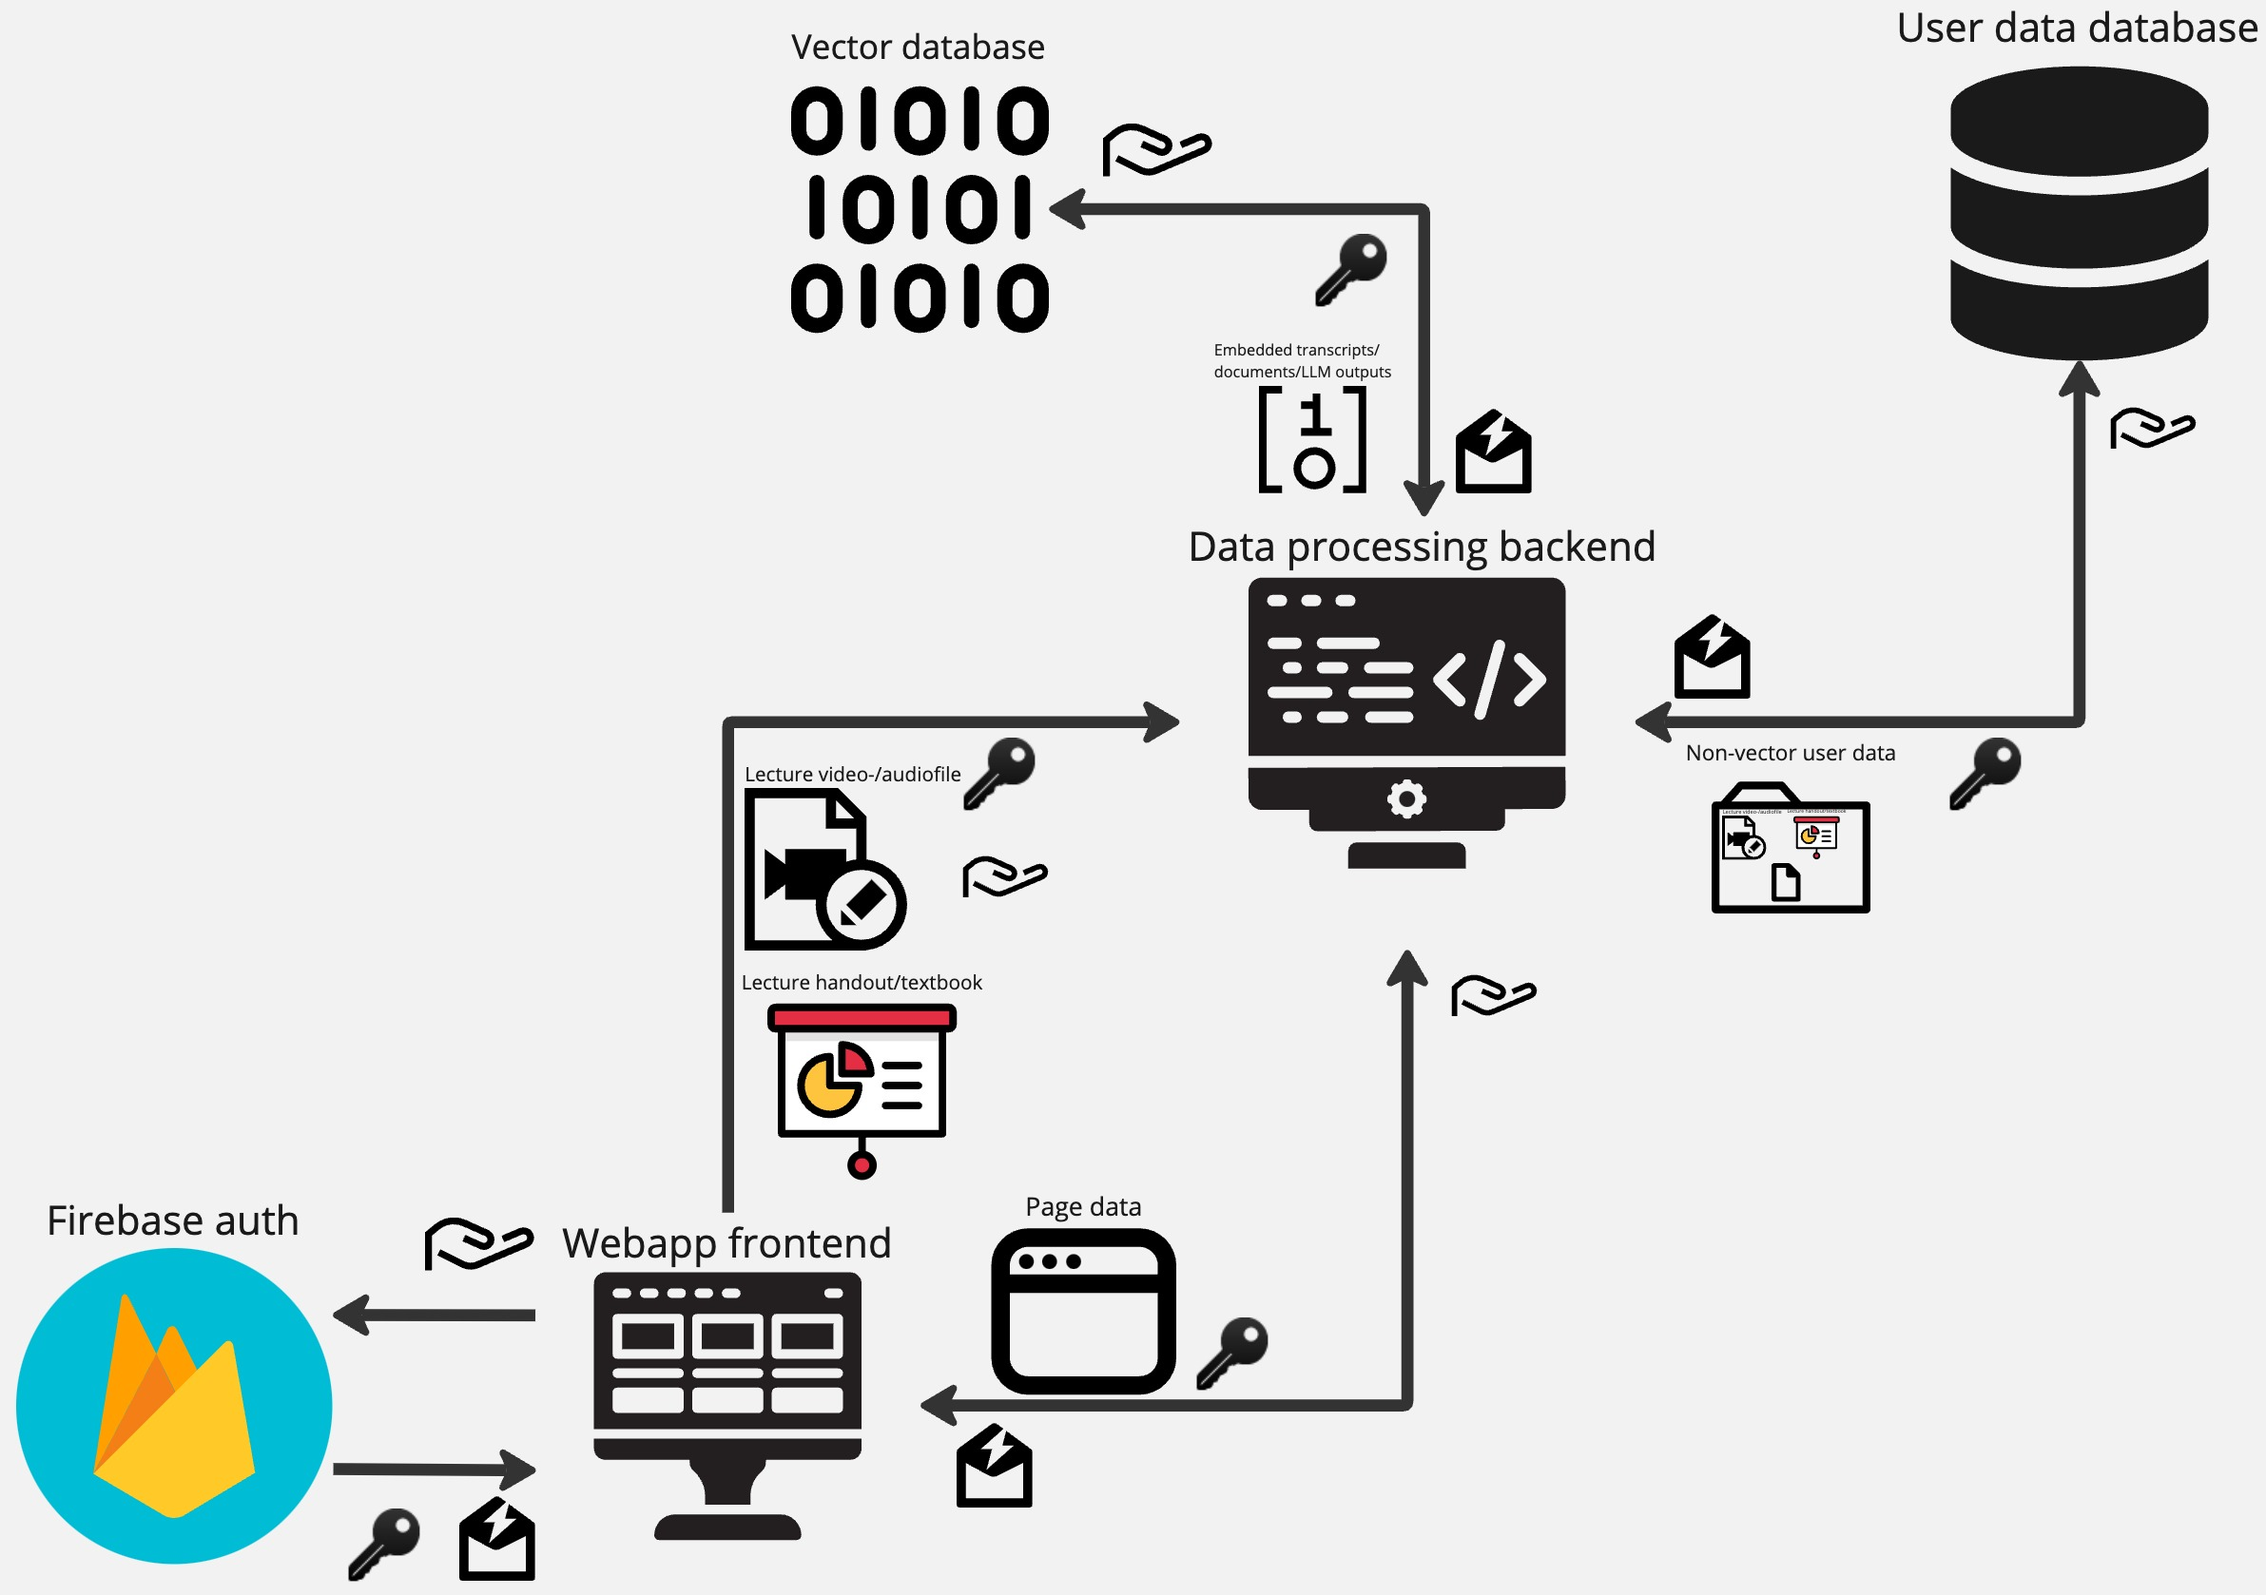
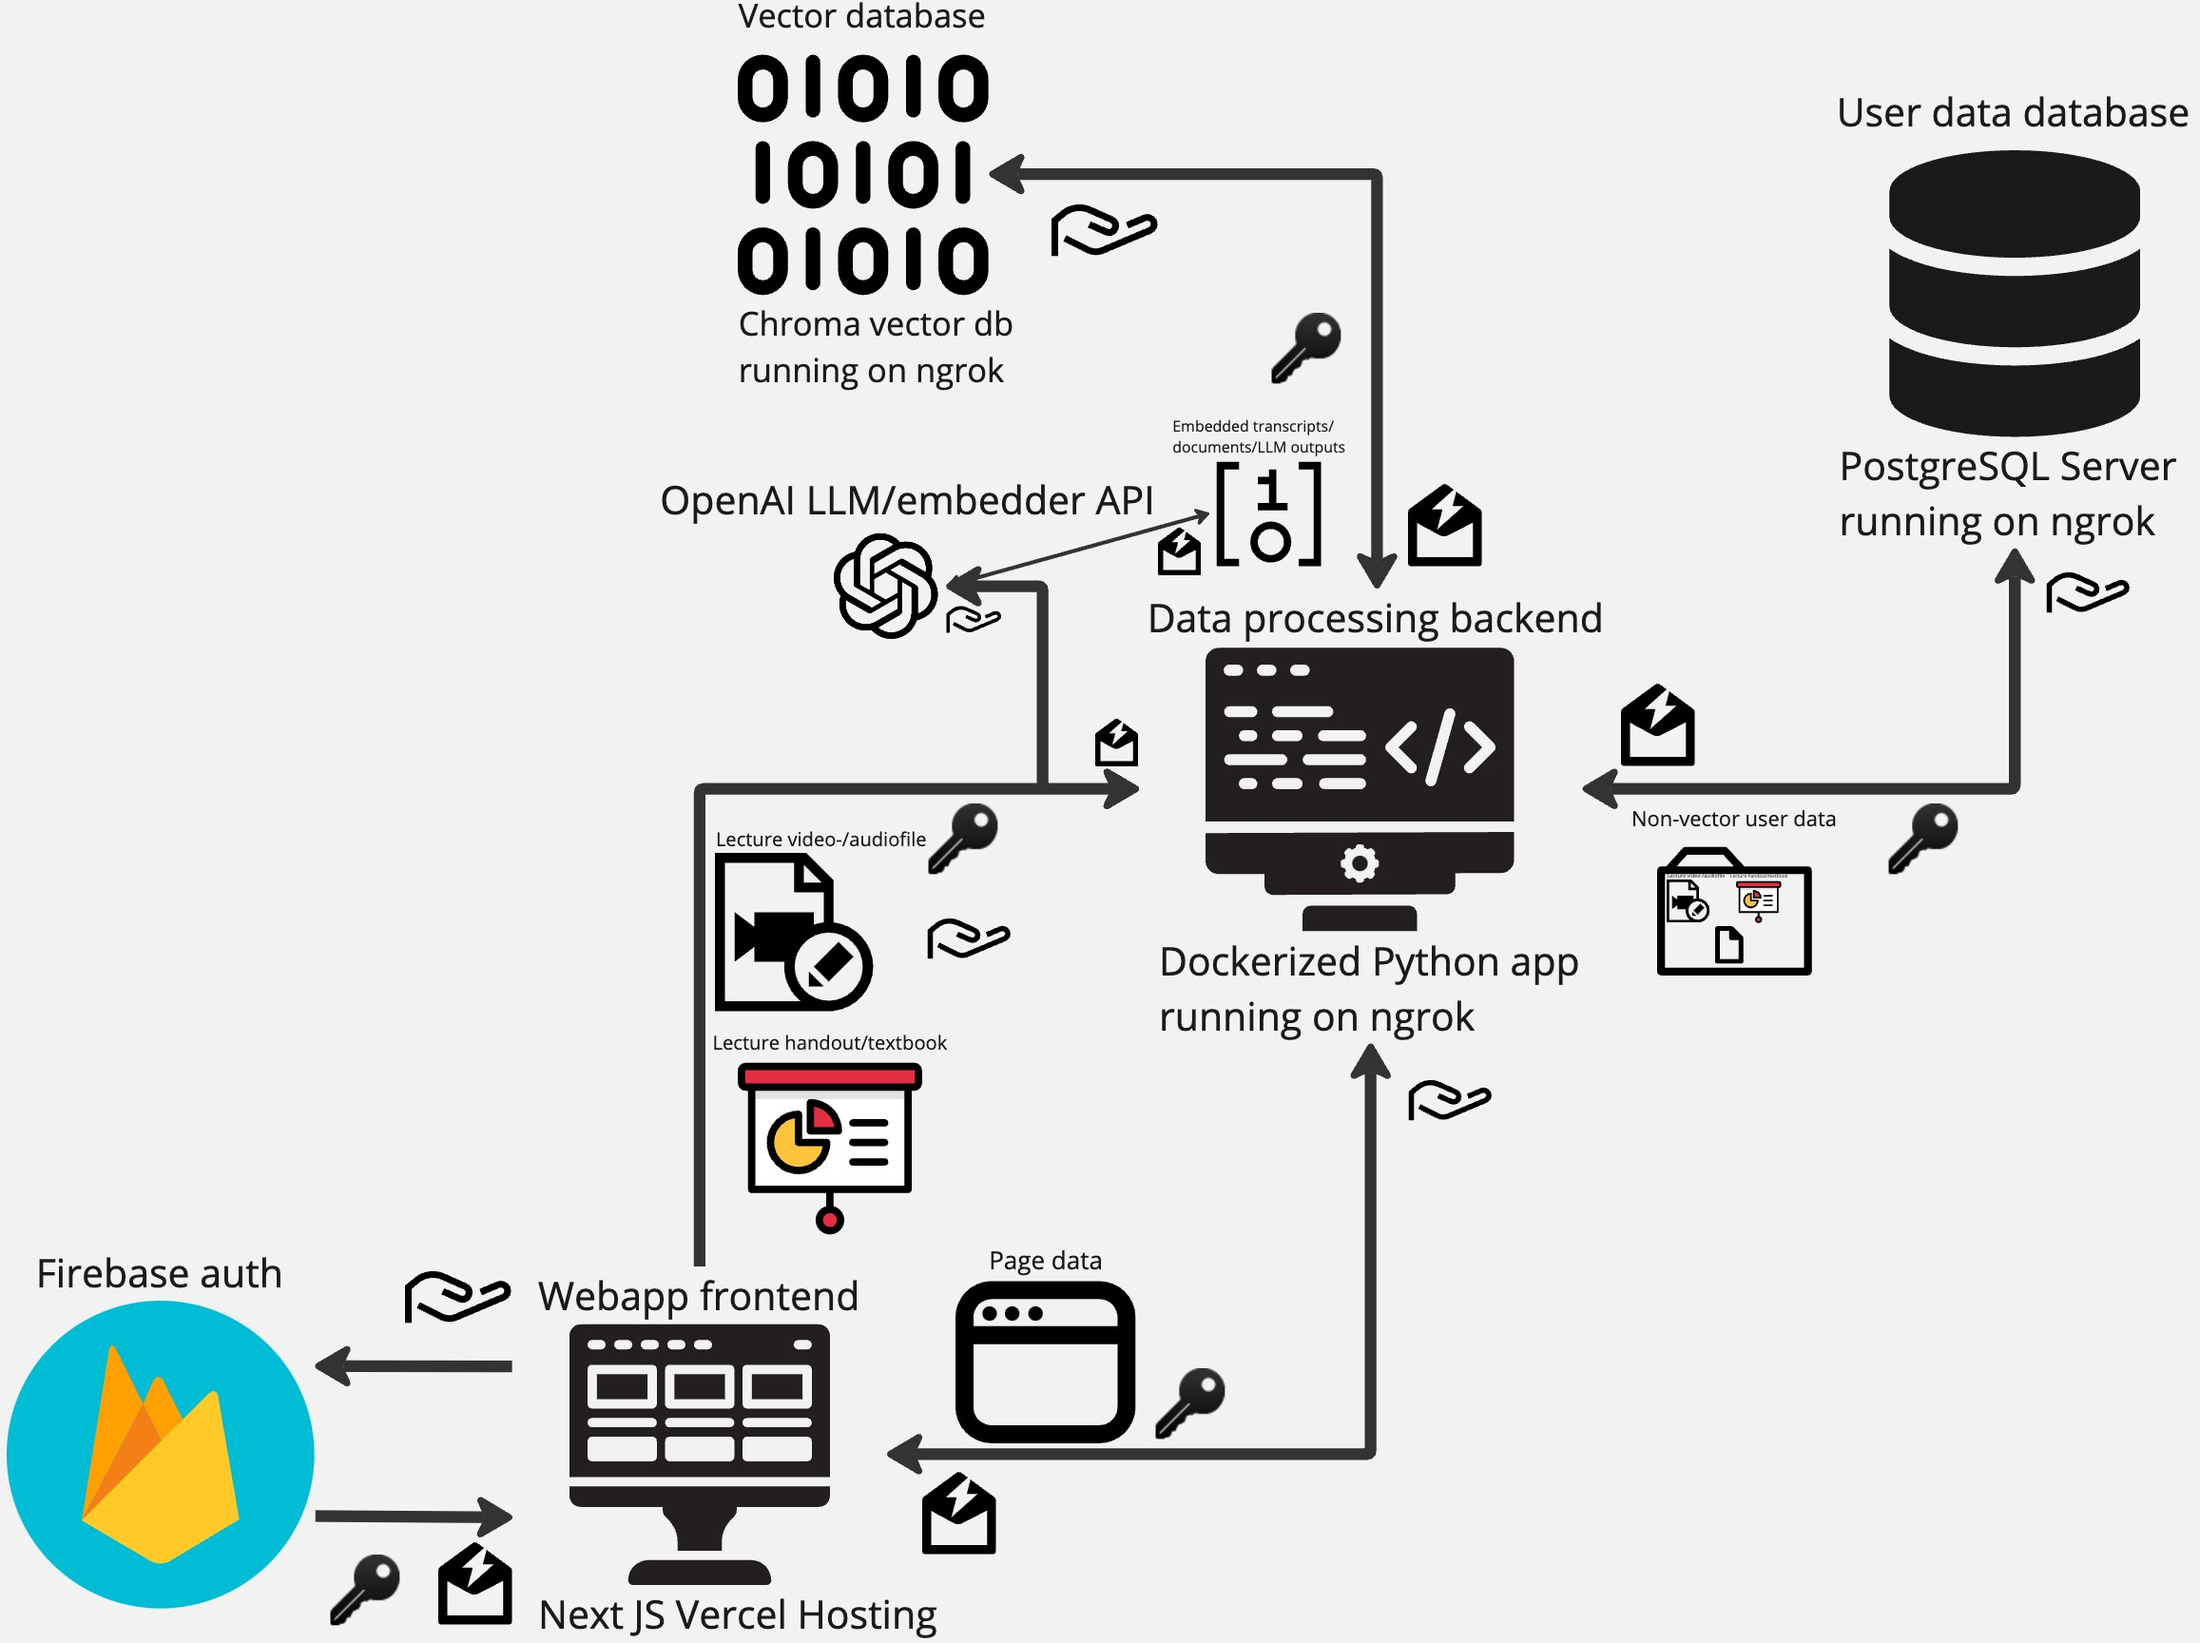
Updated the README.md to comply with phase 3 specifications

Changed region(s): [[0.0, 0.0, 0.9957, 1.0], [0.0933, 0.9607, 0.1245, 0.9917]]

diff --git a/README.md b/README.md
@@ -69,14 +69,14 @@ These are study card pages. Study cards are available in three views: card, list
 ![Data diagram](./readme-imgs/backend.jpeg)
 This is a data diagram of our application. The hand symbol stands for request, the key for authorization token, the envelope with a lightning - response. In order to interact with our applications users will need to register, once they do their account will be issued an authorization token stored in the firebase database - this authorization token will be used as user ID in all other parts of the application. From the application website the client will be making requests to store and process user data, and a request for displaying page data. There’s a lot of moving parts to the data processing backend. 
 
-One thing that’s not included in the diagram is that for the purposes of this class will be using OpenAI’s API for LLM agents, and embeddings (which also adds potential external error states), but it’s not displayed here because in a real-world scenario we’d be using an open source LLM instead (such as Falcon-40b) because OpenAI’s pricing makes it financially unfeasible to use their models for processing large amounts of data. The data processing backend includes the following agents: labeling LLM agent, summarizing LLM agent, table of contents LLM agent, key term LLM agent, Layout Parser agent, embedding agent, encoder-decoder speech recognition agent; it also includes functions to send data to the frontend, vector and user databases and helper functions for file conversion.
+For the purposes of this class we'll be using OpenAI’s API for LLM agents, and embeddings (which also adds potential external error states from the API.) However, in a real-world scenario we’d be using an open source LLM instead (such as Falcon-40b) because OpenAI’s pricing makes it financially unfeasible to use their models for processing large amounts of data. The data processing backend includes the following agents: labeling LLM agent, summarizing LLM agent, table of contents LLM agent, key term LLM agent, Layout Parser agent, embedding agent, encoder-decoder speech recognition agent; it also includes functions to send data to the frontend, vector and user databases and helper functions for file conversion. All of it will run as a dockerized Python application locally hosted on our personal server made public via ngrok.
 
 The encoder-decoder speech recognition agent receives a lecture video/audiofile and converts it into a full text transcript. The Layout Parser agent uses OCR and layout/table/object detection to extract image and text information from lecture handouts and textbooks. The summarizing LLM agent accepts text data from encoder-decoder and Layout Parser agents and converts it into more concise text while keeping track of its data origin. The labeling LLM agent accepts summaries from the summarizing agent and outputs even more concise labels for each of them while keeping track of data origin. The table of contents LLM agent accepts a list of labels for a given document and outputs a table of contents based on it. The key term LLM agent accepts summaries from the summarizing agent and outputs study cards for the key terms contained within them. The embedding agent accepts data from all the LLM agents and converts it into vector format while retaining the data origin for storage in the vector database. 
 
-The vector database stores embeddings allowing to perform vector operations (such as semantic search over user data), it organizes all of the LLM-generated data allowing it to be served to the frontend in the form of summaries and study cards. For the purposes of this class the local vector database Chroma will be used, in a real-world scenario a cloud database like Pinecone would be used. 
+The vector database stores embeddings allowing to perform vector operations (such as semantic search over user data), it organizes all of the LLM-generated data allowing it to be served to the frontend in the form of summaries and study cards. For the purposes of this class the local vector database Chroma will be used (hosted via ngrok), in a real-world scenario a cloud database like Pinecone would be used. 
 
-The user data database stores all non-vector user data, raw files of handouts/textbooks/lecture recordings and user interactions with the application, it also records state data e.g. whereas uploaded materials are made public or kept private by the user. The user data database will be a Postgresql server. 
+The user data database stores all non-vector user data, raw files of handouts/textbooks/lecture recordings and user interactions with the application, it also records state data e.g. whereas uploaded materials are made public or kept private by the user. The user data database will be a Postgresql server (hosted via ngrok). 
 
 Error states of the application will be the standard HTTP request error states i.e. 4xx for frontend failures; 5xx for backend/database/OpenAI API failures. The service will try to utilize asynchronous requests and LLM agent concurrency to try to accommodate said error states (e.g. if a Layout Parser agent fails, encoder-decoder/summarizing/labeling/key term agents will proceed with the lecture summary without providing a handout one) 
 
-The backend will utilize Python TensorFlow and Llangchain, the frontend will utilize the React framework. 
+The backend will utilize Python TensorFlow and Llangchain, the frontend will utilize the NextJS framework and will be hosted on free-tier Vercel. 
